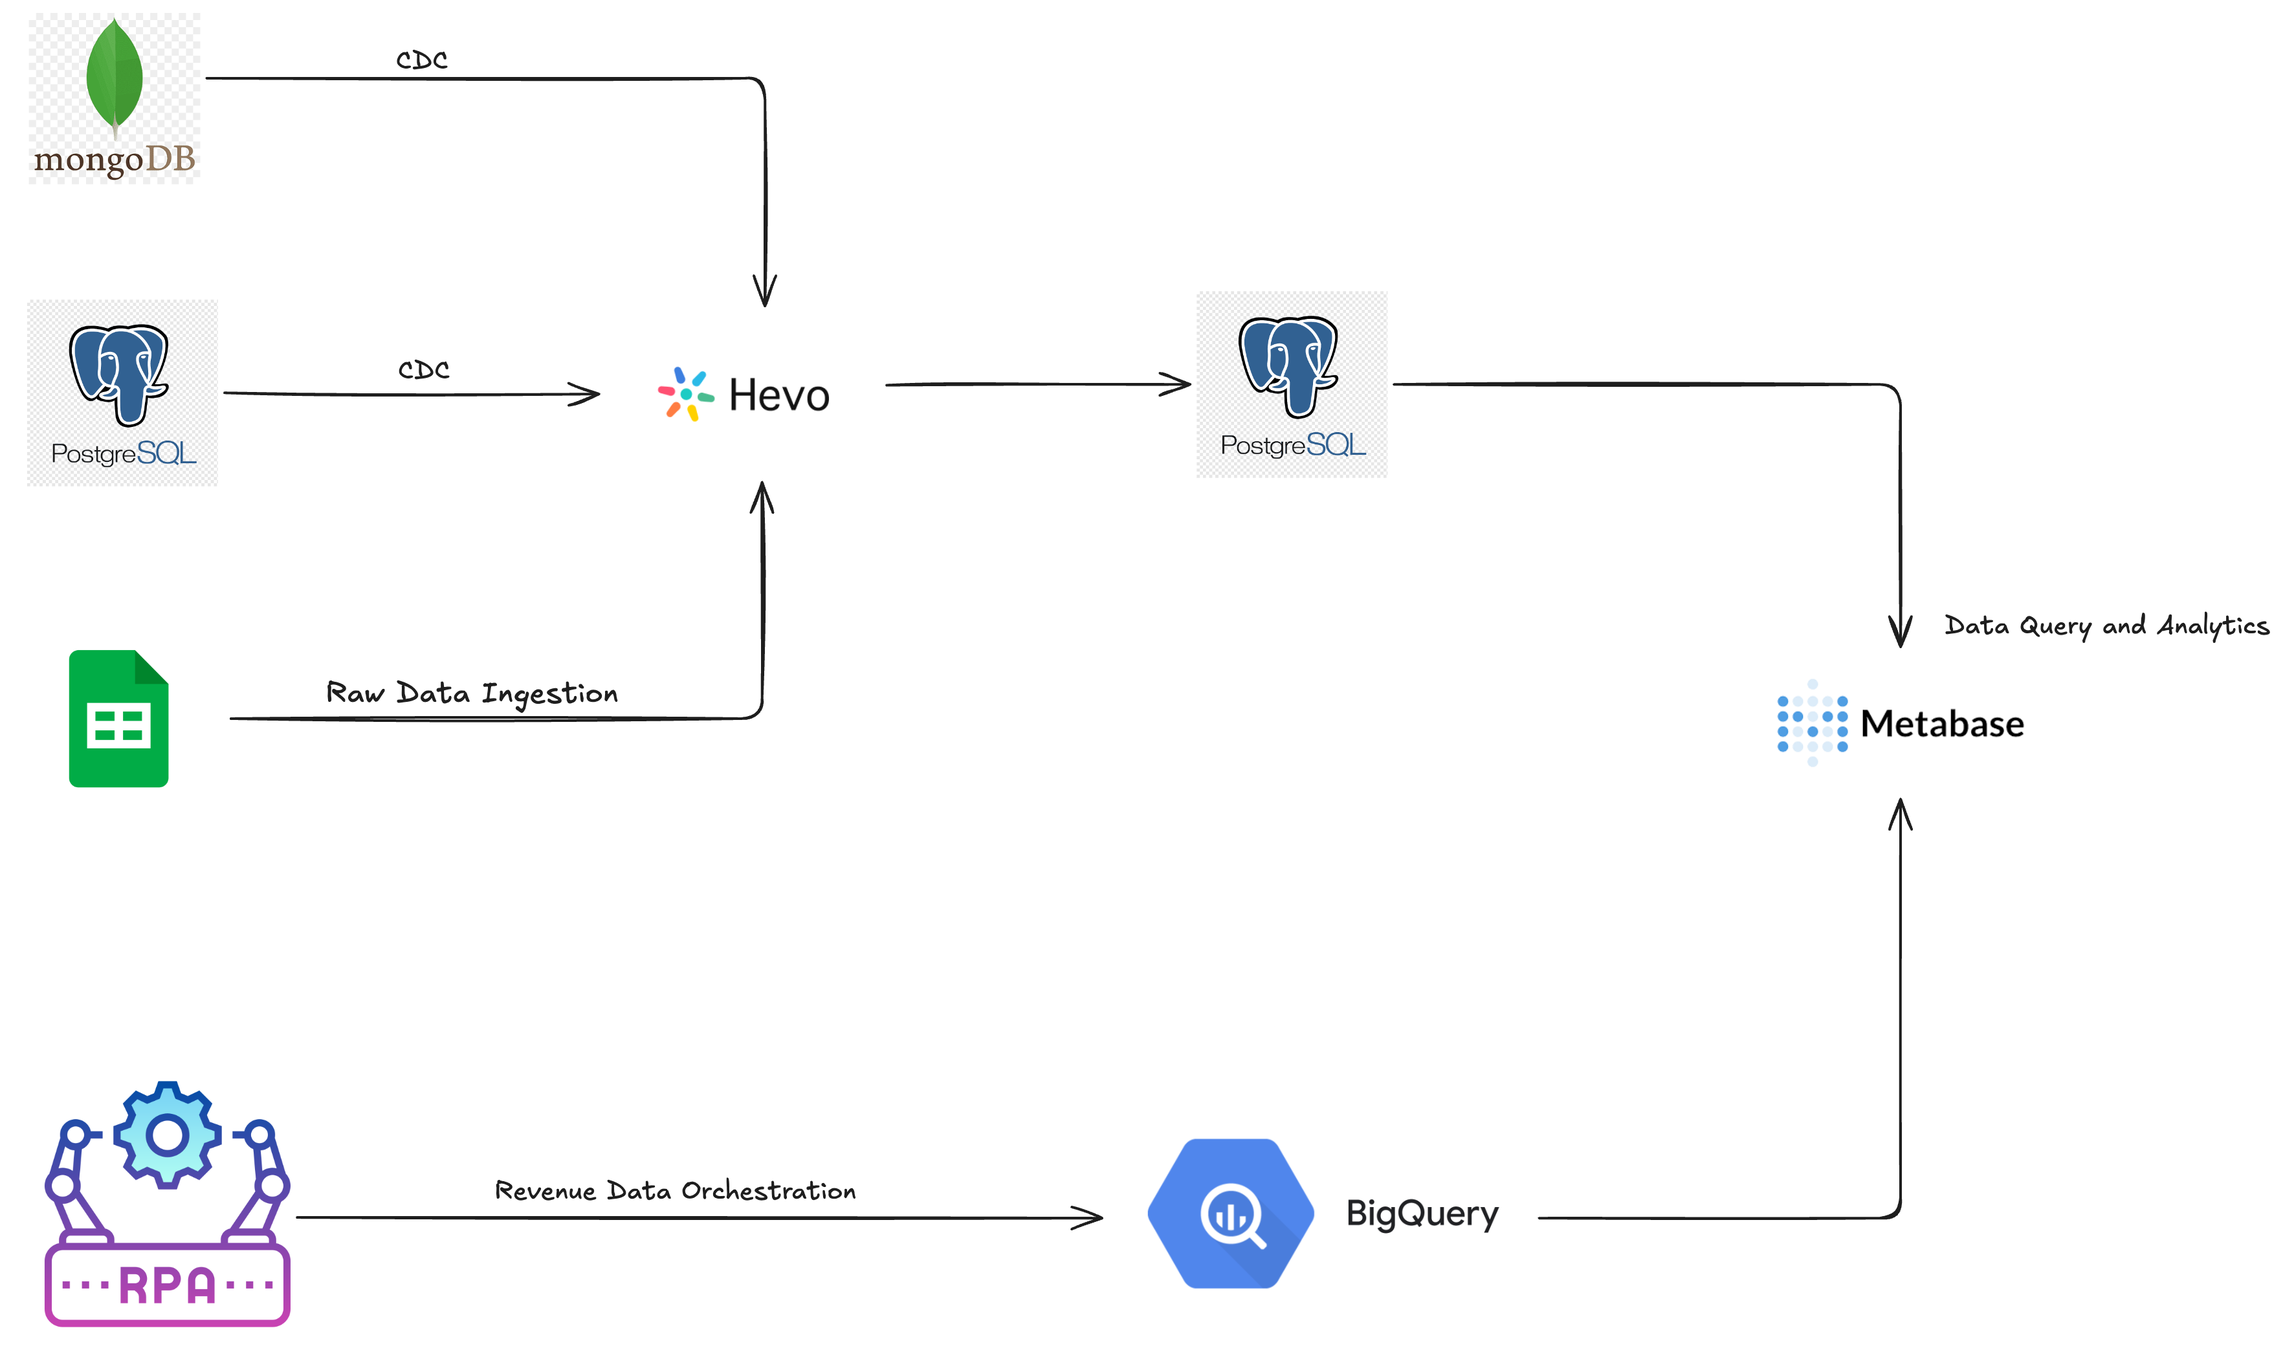
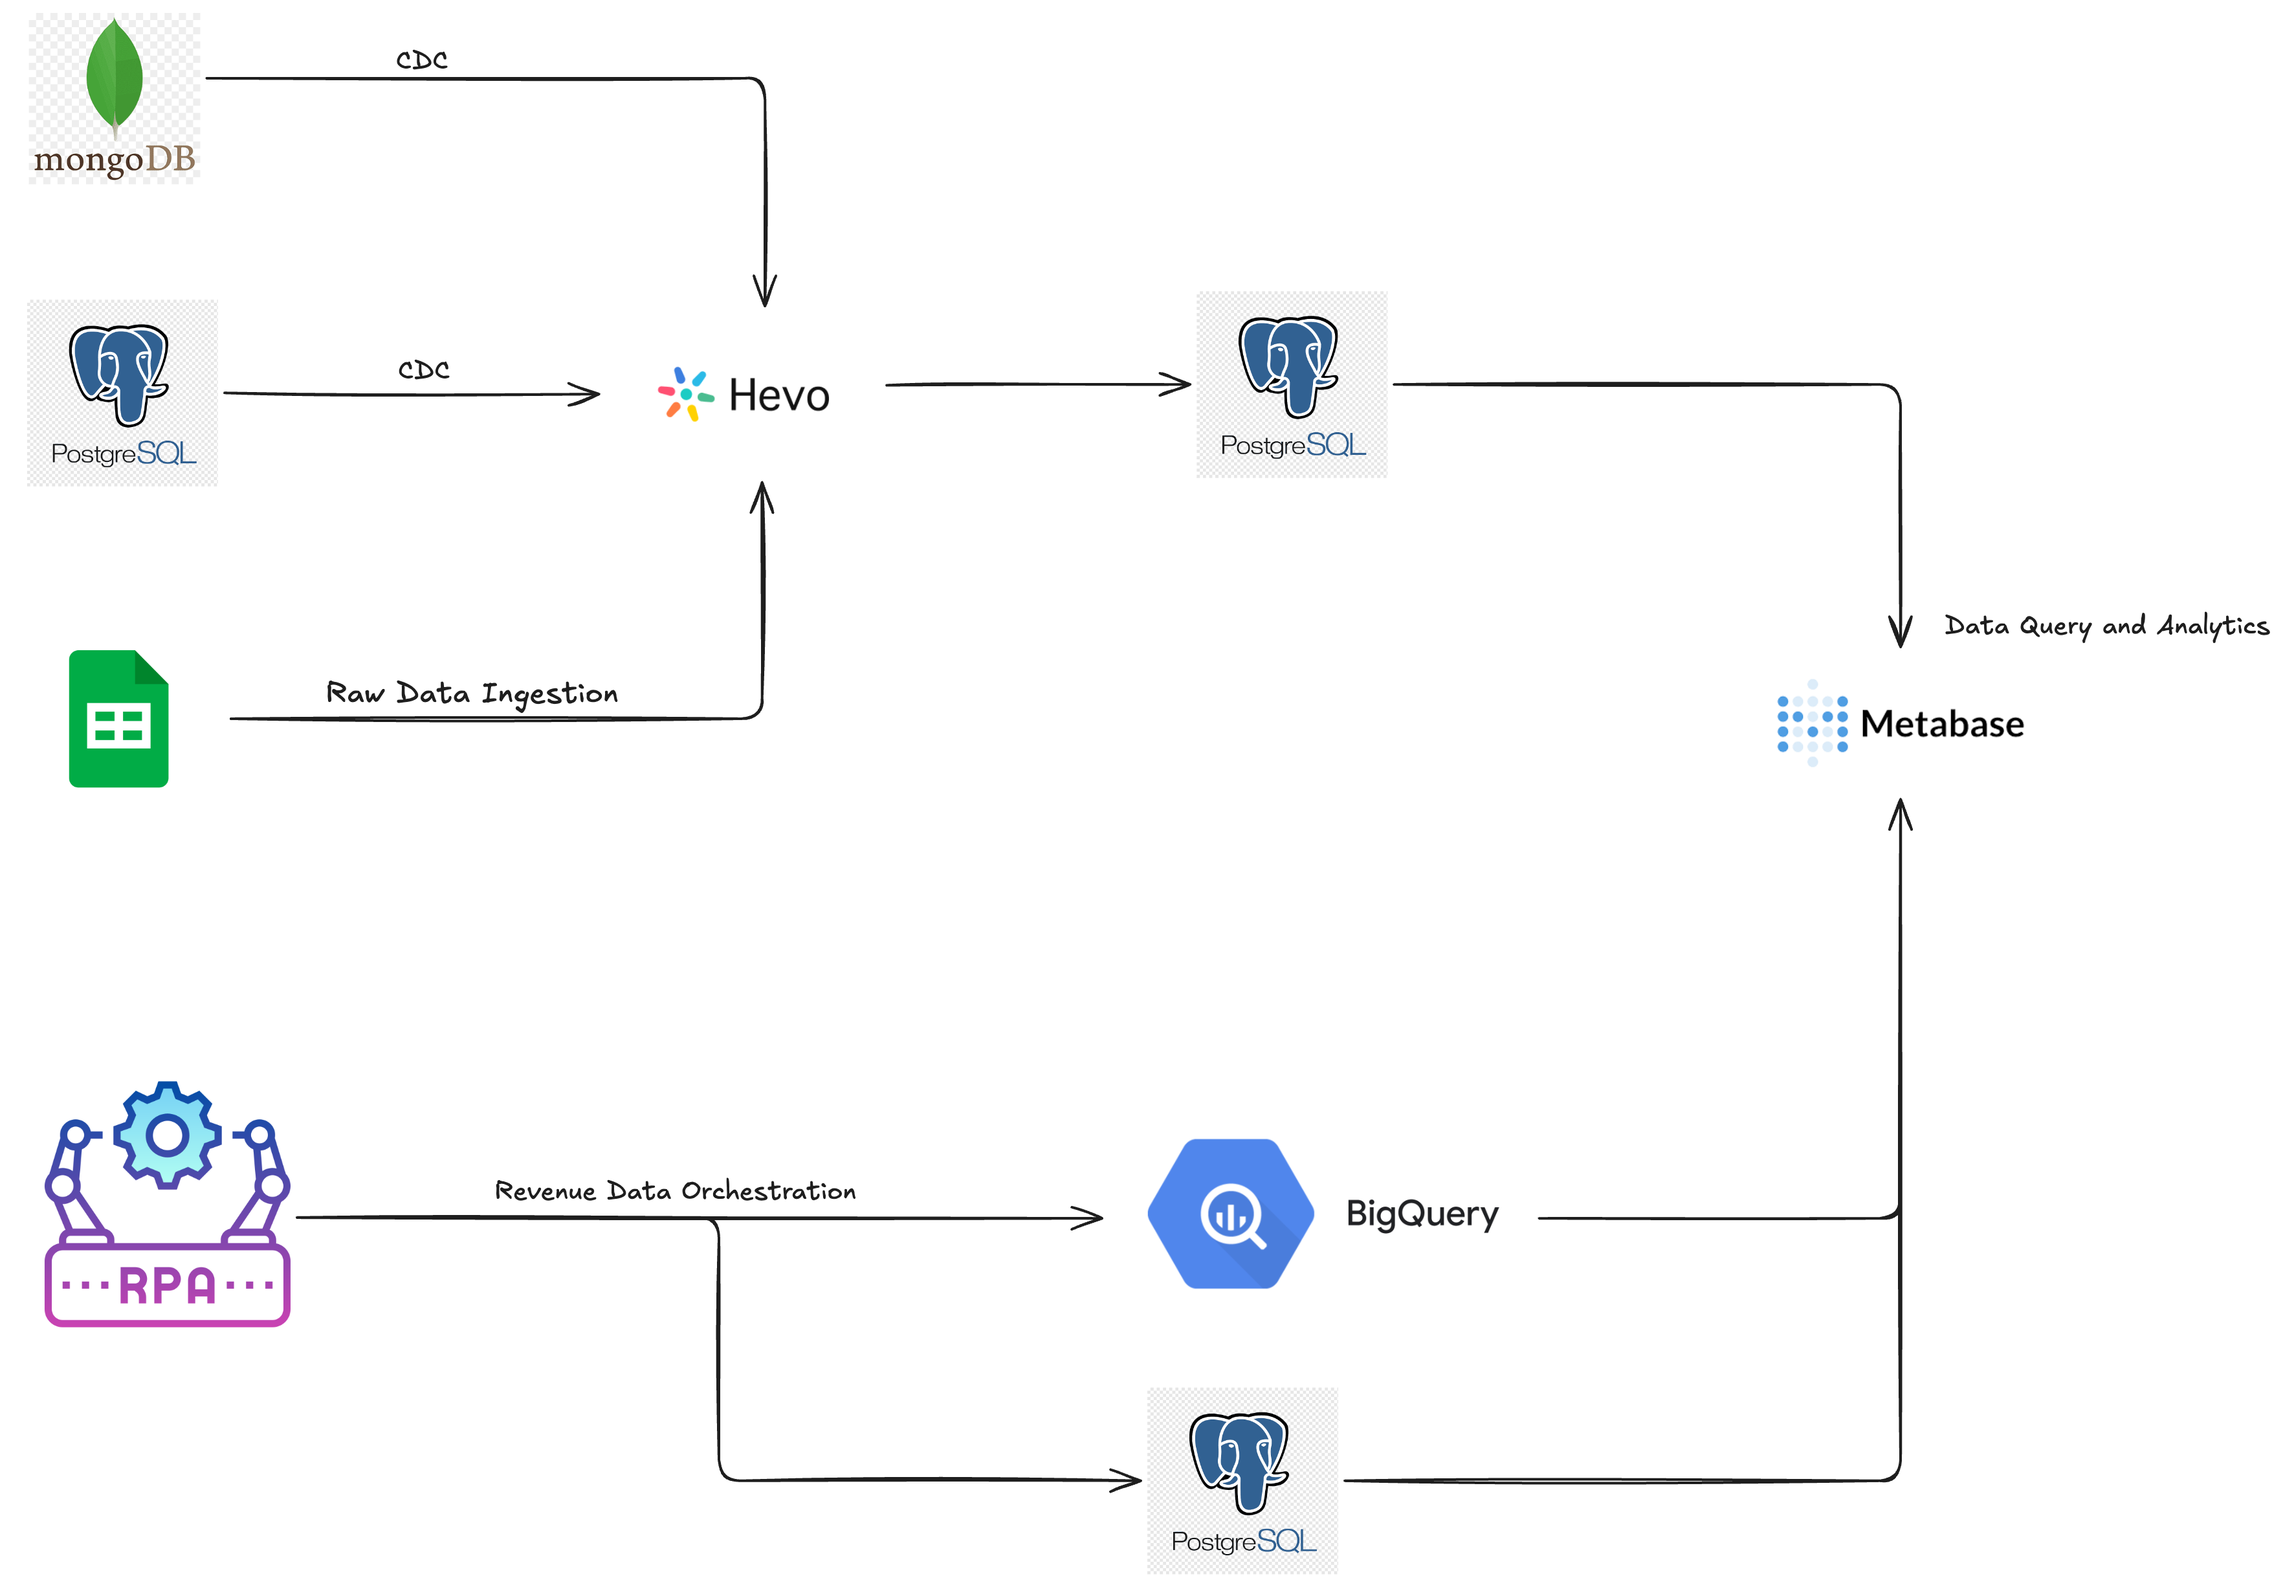
Completion of Data Platform Section

diff --git a/content/posts/data-infra.md b/content/posts/data-infra.md
@@ -1,6 +1,6 @@
 ---
 date: "2025-02-27T00:34:08+05:30"
-title: "Building a Cloud Agnostic Data Platform"
+title: "How we built a Scalable Data Platform"
 tags: ["data", "platform"]
 draft: false
 showAuthorsBadges: false
@@ -20,7 +20,7 @@ Storing the data was only part of the equation. We needed to process and analyse
 
 ## Our Initial Data Platform
 
-![Data Platform](/images/Initial_Data_Infra.png)
+![Initial Data Platform](/images/Initial_Data_Infra.png)
 Our initial data platform was built on a foundation of tools that addressed our early-stage needs, but quickly became insufficient as we scaled. Data ingestion was primarily handled by Hevo, which leveraged Debezium Slots for capturing CDC events from our databases, oplog for MongoDB, and direct integration with Google Sheets. While Hevo simplified initial data capture, its data transformation capabilities were limited, primarily offering basic functionality like data key deletion and value formatting.
 
 Revenue data from marketplaces was ingested through an RPA-driven process, with data being directly ingested into Google BigQuery (GBQ) as raw dumps. BigQuery (GBQ). While this approach was simpler, it came with high costs, as GBQ is priced based on the amount of data queried. Given that the data sizes for each table were in the order of 200-500GBs, the costs quickly escalated.
@@ -29,7 +29,52 @@ Furthermore, a significant portion of queries were executed directly against our
 
 In the early days, with a smaller team and less data, these engineering decisions were pragmatic and likely solved the immediate problems. However, as our company grew and data demands increased, it became clear that this solution was not scalable and could not meet our evolving requirements. This realization led to the creation of a new data team, with myself and my manager, Aankesh [^1], tasked with building a more robust and scalable data platform. We needed a platform that could handle the volume, variety, and complexity of our data, while also providing the necessary tools for efficient analysis and decision-making.
 
-## Data Platform
+## Our New Data Platform
+
+We implemented an ELT stack for our new data platform, leveraging cheap storage to prioritize raw data ingestion and subsequent in-warehouse transformations. We also strategically reused existing software components where they weren't being fully utilized, further optimizing our development efforts.
+
+The platform's development was segmented into two layers: Data Ingestion and Storage & Compute.
+
+### Data Ingestion Layer
+
+![Data Ingestion](/images/Data_Ingestion.png)
+
+- **Debezium:** Implemented for capturing CDC events from PostgreSQL and MongoDB, enabling real-time data replication.
+- **Airflow:** Utilized to orchestrate manual data ingestion from sources like Google Sheets and CSV files.
+- **Kafka & Kafka Connect:**
+  - Formed the core of our streaming data pipeline.
+  - Leveraged custom Single Message Transforms (SMTs) for specialized transformations.
+  - Self-managed and hosted Kafka Connect cluster for fine-grained control.
+  - Utilized **managed Confluent Cloud** for our Kafka Connect cluster, leveraging our existing infrastructure used for application pub-sub systems.
+- **Sink Connectors:** Employed Kafka Connect Sink Connectors to deliver data to downstream destinations, including:
+  - File storage (S3).
+  - PostgreSQL for data replication.
+
+### Storage & Compute Layer
+
+![Data Processing](/images/Data_Platform.png)
+
+- **Data Storage: Efficient and Cost-Effective Persistence**
+  - All raw data, ingested from our diverse sources, is persisted in file storage (S3) in Parquet format. This choice offers significant advantages: Parquet's columnar storage optimizes query performance, and S3 provides cost-effective and highly durable storage.
+- **Data Transformation and Quality: Robust Pipelines and Validation**
+  - Airflow orchestrates dbt runs, enabling us to build modular, testable, and maintainable data transformation pipelines. dbt's transformation logic, expressed as SQL, simplifies the process and allows for version control.
+  - Great Expectations is integrated into our pipelines to ensure comprehensive data validation checks at every stage. This helps us detect and address data quality issues early, preventing downstream errors.
+  - dbt docs are used for good documentations. This allows for data lineage tracking, and helps downstream consumers discover and understand the datasets we curate for them.
+- **Ad-Hoc Analysis: Flexibility and Speed**
+  - Depending on dataset size and query patterns, we also leverage DuckDB for ad-hoc analysis and rapid prototyping. DuckDB's in-process, embeddable nature allows for fast, interactive querying, particularly for smaller datasets or exploratory analysis.
+- **Medallion Architecture: Organizing Data for Consumption**
+  - We implemented a medallion architecture (Bronze, Silver, Gold) to organize our data for optimal consumption.
+  - The Bronze layer stores raw data, the Silver layer contains cleaned and conformed data, and the Gold layer provides business-ready datasets.
+  - The Gold layer is further refined to create fine-grained datasets tailored to specific data access patterns. This approach minimizes data scanning during queries, significantly optimizing query performance, especially for frequently accessed data.
+
+To enable efficient data discovery and querying:
+
+- **Data Indexing and Metastore: Seamless Data Discovery**
+  - AWS Glue crawlers automatically index data in S3, updating metadata as new data arrives.
+  - The AWS Glue Data Catalog serves as our Hive Metastore, providing a centralized repository for metadata. This allows Trino to efficiently locate and access data across our data lake.
+- **Querying and Visualization: Empowering Data-Driven Decisions**
+  - Trino is integrated with the Hive Metastore for distributed querying, enabling us to query data across our data lake using standard SQL. Trino's ability to federate queries across multiple data sources provides flexibility.
+  - Metabase is linked to Trino, providing a user-friendly data visualization layer. This empowers our data and BI teams to create interactive reports and dashboards, driving data-driven decisions throughout the organization.
 
 ## Cost Analysis
 
